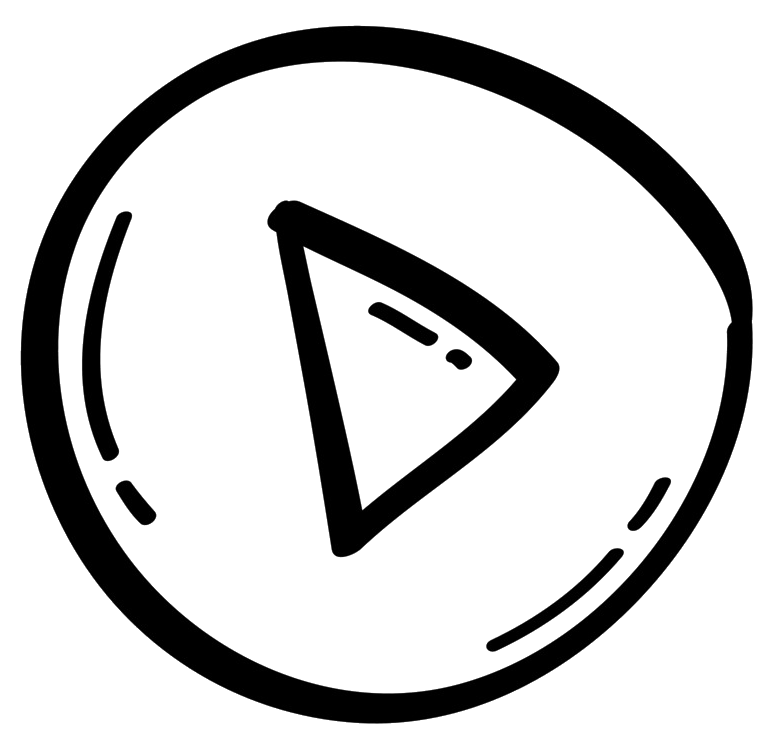
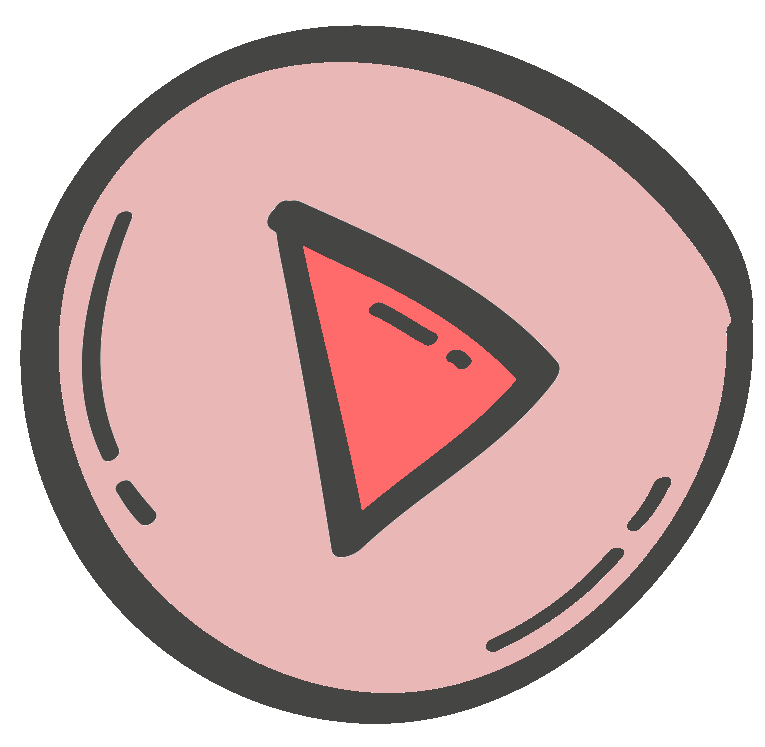
Changed buttons style and removed padding

diff --git a/lib/consonants_settings_screen.dart b/lib/consonants_settings_screen.dart
@@ -3,6 +3,7 @@ import 'package:shared_preferences/shared_preferences.dart';
 import 'responsive_screen.dart';
 import 'package:go_router/go_router.dart';
 import 'size_config.dart';
+import 'settings_screen.dart';
 
 class ConsonantsSettingsScreen extends StatefulWidget {
   const ConsonantsSettingsScreen({super.key});
@@ -95,7 +96,7 @@ class _ConsonantSettingsLine extends StatelessWidget {
     return InkResponse(
       highlightShape: BoxShape.rectangle,
       child: Padding(
-        padding: const EdgeInsets.symmetric(horizontal: 8),
+        padding: EdgeInsets.zero,
         child: Row(
           mainAxisAlignment: MainAxisAlignment.start,
           children: [

diff --git a/lib/settings_screen.dart b/lib/settings_screen.dart
@@ -95,7 +95,7 @@ class _SettingsLine extends StatelessWidget {
       highlightShape: BoxShape.rectangle,
       onTap: onSelected,
       child: Padding(
-        padding: const EdgeInsets.symmetric(horizontal: 8),
+        padding: EdgeInsets.zero,
         child: Row(
           mainAxisAlignment: MainAxisAlignment.start,
           children: [
